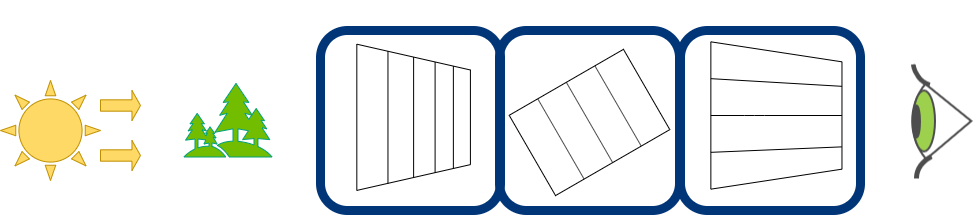
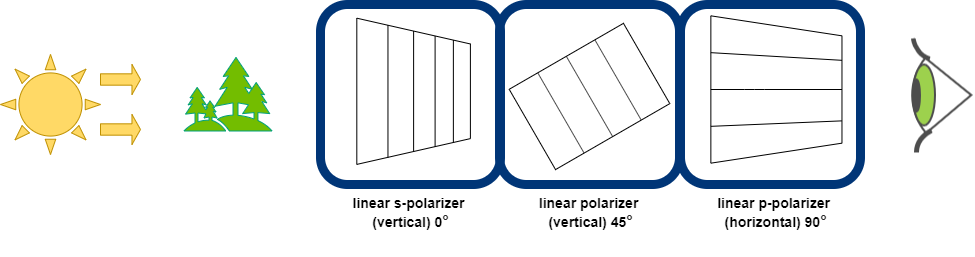
UPDATES

diff --git a/APPLICATIONS/APP_POL_Brewster_Angle_Experiment/Readme.md b/APPLICATIONS/APP_POL_Brewster_Angle_Experiment/Readme.md
@@ -30,7 +30,7 @@ width="400">
 
 Brewster angle can be easily calculated using refractive indices of travelling media of light. In our experiment, we used air (n1 = 1) as the first medium in which light comes first and reflects in this part and microscope slide glass (n2 = 1.5) as the second medium which light transmits through. When we calculate the Brewster angle for our experiment, it equals approximately 57 degrees and the equation can be found below.  
 
-<p align="right">
+<p align="center">
 <img src="./IMAGES/brewster angle equation7.png"
 <p align="center">
 <img src="./IMAGES/refractive index rule.png"

diff --git a/APPLICATIONS/APP_POL_Three_Polarizers/Readme.md b/APPLICATIONS/APP_POL_Three_Polarizers/Readme.md
@@ -1,10 +1,10 @@
 # Three Polarizers (0, 45, 90 degrees)    
 
-
 <p align="center">
-<img src="./IMAGES/three_polarizers_diagram.png"
+<img src="./IMAGES/three_polarizers_diagram_2.png"
 width="650">
 </p>
+
 
 We use two linear polarizers in [crossed polarizers experiment](../../APPLICATIONS/APP_POL_Crossed_Polarizers) and block all traveling light and see almost darkness. :open_mouth:  
 But if we add a third polarizer between them, we see the light at the end of the tunnel. MAGIC? :crystal_ball:  
